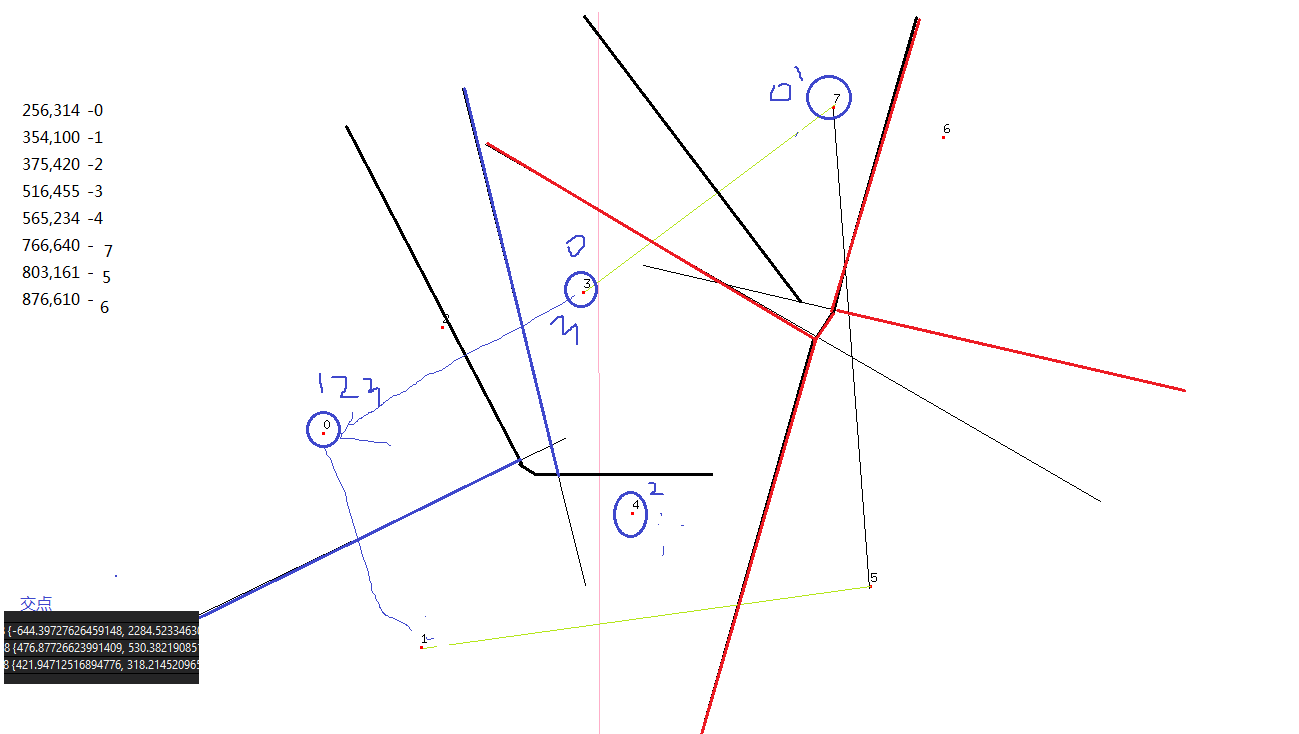
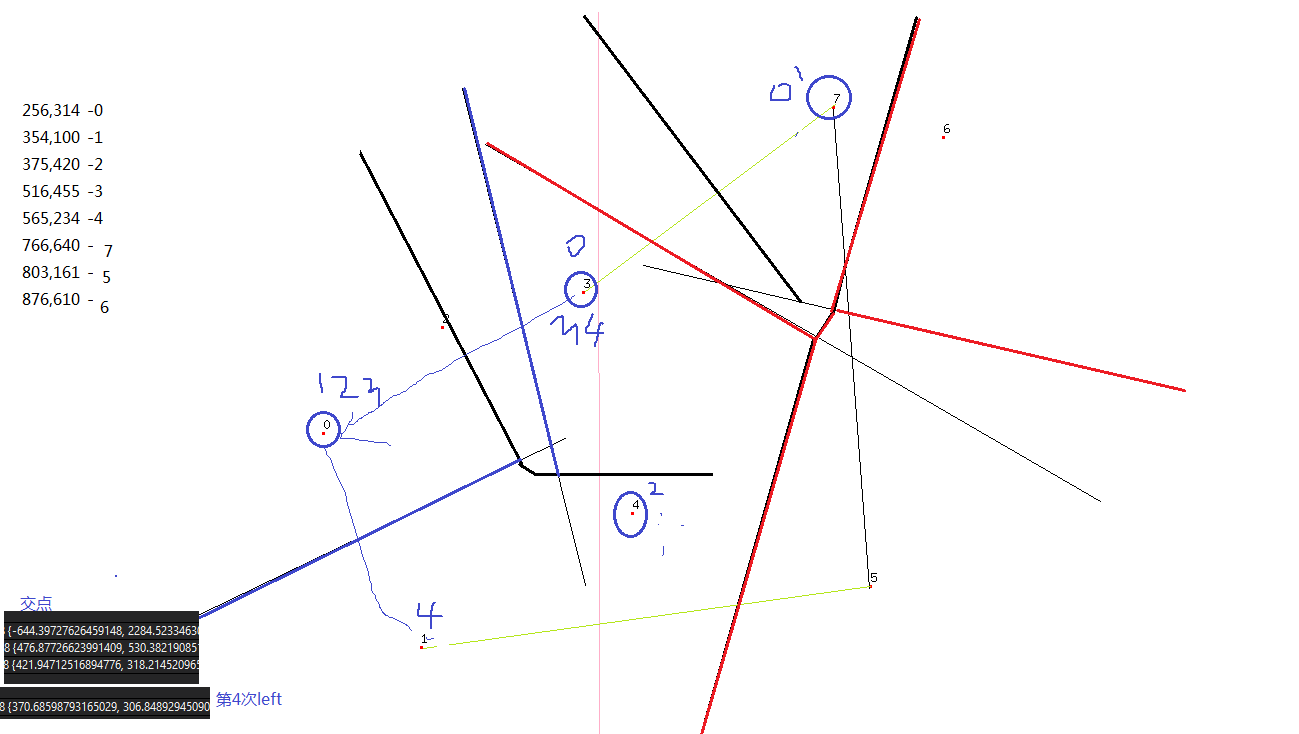
fix bug that find the right upper and lower bound between left and right convuxhull

Changed region(s): [[0.0, 0.9292, 0.2156, 0.9891]]

diff --git a/VoronoiDiagram/OpenGLDemo/VoronoiDevideConquer.hpp b/VoronoiDiagram/OpenGLDemo/VoronoiDevideConquer.hpp
@@ -9,7 +9,9 @@
 using namespace std;
 #define INFINITE_LENGTH 1000
 
-#define TOLERANCE 0.001
+#ifndef TOLERANCE 0.001
+    #define TOLERANCE 0.001
+#endif // !TOLERANCE 0.001
 
 #ifndef Vector
     typedef Point Vector ;
@@ -282,7 +284,7 @@ VoronoiDiagram* smallVD(vector<Point> &origin, int left, int right)
     return result;
 }
 
- 
+ //reference: http://www.personal.kent.edu/~rmuhamma/Compgeometry/MyCG/Voronoi/DivConqVor/divConqVor.htm
 void tangentLine(vector<Site*> left, vector<Site*> right, Site &leftMax, Site  &leftMin, Site &rightMax, Site  &rightMin)
 {
     /*Point leftMax = Point(numeric_limits<double>::min(),numeric_limits<double>::min());
@@ -290,41 +292,84 @@ void tangentLine(vector<Site*> left, vector<Site*> right, Site &leftMax, Site  &
     Point rightMax = Point(numeric_limits<double>::min(),numeric_limits<double>::min());
     Point rightMin = Point(numeric_limits<double>::max(),numeric_limits<double>::max());*/
     
+    ////the sites have already sorted by x, increasing ? points...but the site may not
     double min =  DBL_MAX;
     double max = DBL_MIN;
 
+    //find the rightest of left's site
+    int left_rightmost_index;
     for (unsigned int i = 0; i < left.size(); i++)
     {
         Point t = left[i]->p;
-        if(t.y() < min)
+        if(t.x() > max)
         {
-            leftMin = *left[i];
-            min = t.y();
-        }
-        if(t.y() > max)
-        {
-            leftMax = *left[i];
-            max = t.y();
+            left_rightmost_index = i;
+            max = t.x();
         }
     }
-    
-    min =  DBL_MAX;
-    max = DBL_MIN;
-
+    //find the leftmost of right's site
+    int right_leftmost_index;
     for (unsigned int i = 0; i < right.size(); i++)
     {
         Point t = right[i]->p;
-        if(t.y() < min)
+        if(t.x() < min)
         {
-            rightMin = *right[i];
-            min = t.y();
-        }
-        if(t.y() > max)
-        {
-            rightMax = *right[i];
-            max = t.y();
+            right_leftmost_index = i;
+            min = t.x();
         }
     }
+
+    int left_rightmost_index_bak = left_rightmost_index;
+    int right_leftmost_index_bak = right_leftmost_index;
+
+    //the first index of the convexhull  is random ,but all is ccw 
+    bool flag = true;//flag whether zig-zag have changes.
+    //zig-zag to get the tangent line, upper bound 
+    while (flag)
+    {
+        flag = false;
+        while(GeometryTool::to_left(right.at((right_leftmost_index-1) % right.size()), left.at(left_rightmost_index), right.at(right_leftmost_index)))
+        {
+            right_leftmost_index  = (right_leftmost_index - 1) % right.size();
+            //if(right_leftmost_index == -1)
+            //    right_leftmost_index = right.size() - 1;
+            flag = true;
+        }
+        //left ccw ,use +
+        while(GeometryTool::to_left(left.at((left_rightmost_index+1) % left.size()), left.at(left_rightmost_index), right.at(right_leftmost_index)))
+        {
+            left_rightmost_index = (left_rightmost_index+1) % left.size();
+            flag = true;
+        }
+    }
+    leftMax = *left.at(left_rightmost_index);
+    rightMax = *right.at(right_leftmost_index);
+
+
+    left_rightmost_index = left_rightmost_index_bak;
+    right_leftmost_index = right_leftmost_index_bak;
+
+    //zig-zag to get the tangent line, lower bound ,left should cw, right should ccw
+    flag = true;
+    while (flag)
+    {
+        flag = false;
+        while(GeometryTool::to_left(right.at((right_leftmost_index+1)%right.size()), right.at(right_leftmost_index), left.at(left_rightmost_index)))
+        {
+            right_leftmost_index = (right_leftmost_index+1) % right.size();
+            flag =true;
+        }
+        //left ccw ,use +
+        while(GeometryTool::to_left(left.at((left_rightmost_index-1) % left.size()), right.at(right_leftmost_index), left.at(left_rightmost_index)))
+        {
+            left_rightmost_index = (left_rightmost_index -1 ) %left.size();
+            flag = true;
+        }
+    }
+
+    leftMin = *left.at(left_rightmost_index);
+    rightMin = *right.at(right_leftmost_index);
+
 }
 vector<Site*> processConvexHull(vector<Site*> &convexhull)
 {
@@ -453,7 +498,7 @@ void deleteNextEdge(vector<Halfedge*> &edges,  Halfedge * edge)
         }
         //edge->nextEdge()->SetPrevEdge(NULL);No need, has delete, none can access it
         edge->SetNextEdge(NULL);
-        delete nextEdge;
+        //delete nextEdge;
     }
 
 }
@@ -663,15 +708,15 @@ VoronoiDiagram* mergeVD(VoronoiDiagram* left, VoronoiDiagram* right)
     vector<DevideChain> devideChain;
 
     //the convex hull is cw
-    //left->convex_hull = GeometryTool::getConvexHullUseGrahamScan(left->sites);
-    //right->convex_hull = GeometryTool::getConvexHullUseGrahamScan(right->sites);
+    left->convex_hull = GeometryTool::getConvexHullUseGrahamScan(left->sites);
+    right->convex_hull = GeometryTool::getConvexHullUseGrahamScan(right->sites);
     //process the convex hull to ccw, and the first one is lowest then leftest
     
     Site *leftMax = new Site();
     Site *leftMin = new Site();
     Site *rightMax = new Site();
     Site *rightMin = new Site(); 
-    tangentLine(left->sites, right->sites, *leftMax,  *leftMin,  *rightMax, *rightMin);
+    tangentLine(left->convex_hull, right->convex_hull, *leftMax,  *leftMin,  *rightMax, *rightMin);
    
     bool tobottom = false;
     //not zig zag, but the site opposite
@@ -842,7 +887,7 @@ VoronoiDiagram* partition(vector<Point> &origin, int left, int right)
 VoronoiDiagram* VoronoiDiagram::DevideConquerConstruction( vector< Point > &points )
 {
     //remove TOLERANCE same points should.
-    sort(points.begin(), points.end(), &GeometryTool::compareByX);
+    sort(points.begin(), points.end(), &GeometryTool::comparePointByX);
 
     return partition(points, 0, points.size()-1);
 

diff --git a/VoronoiDiagram/OpenGLDemo/GeometryTool.hpp b/VoronoiDiagram/OpenGLDemo/GeometryTool.hpp
@@ -82,11 +82,18 @@ public:
         return p0.y() < p1.y();
     }
 
-    static int compareByX(Point &p0, Point &p1)
+    static int comparePointByX(Point &p0, Point &p1)
     {
         if (p0.x() == p1.x())
             return p0.y() < p1.y();
         return p0.x() < p1.x();
+    }
+
+    static int compareSiteByX(Site* &p0, Site* &p1)
+    {
+        if (p0->x() == p1->x())
+            return p0->y() < p1->y();
+        return p0->x() < p1->x();
     }
 
     //test if po is on the left of p2p3
